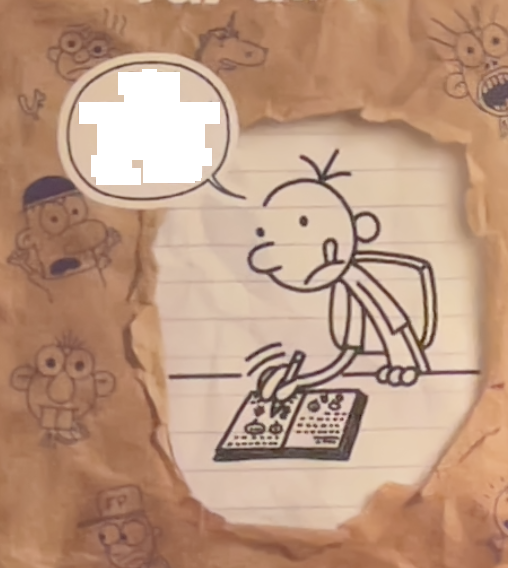
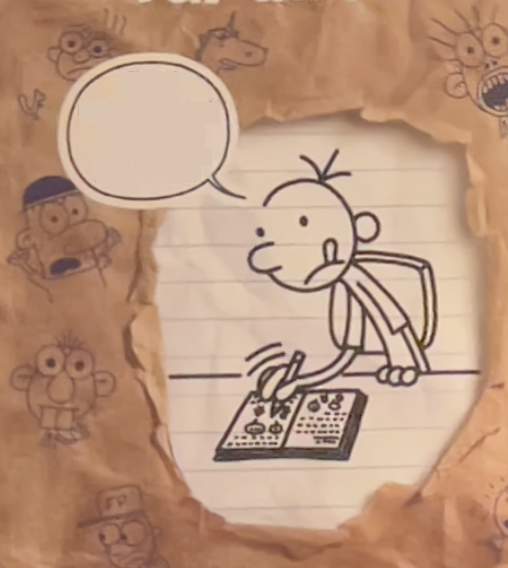
tolto testo all'img e aggiunto testo personalizzato

Changed region(s): [[0.1476, 0.1197, 0.4429, 0.3292]]

diff --git a/script.js b/script.js
@@ -1,11 +1,20 @@
 let titolo = document.querySelector("h6");
 let pagina = document.querySelector("body");
-
+let myHTML = `
+    <div id="fumetto">
+        <img src="./img/schiappa.png">
+        <p> Sei<br/>proprio<br/>una<br/>schiappa!!! </p>
+    </div>
+`;
 titolo.addEventListener("click", function() {
-    pagina.insertAdjacentHTML("beforeend", `
-        <div style="position: absolute;top: 50%; left: 50%;">
-            <img src="./img/schiappa.png" style="height: 200px;">
-            <p style="position: absolute;top: 1%;margin: 0;">Sei proprio una schiappa!!!</p>
-        </div>
-    `);
+    let fumetto = document.querySelector('#fumetto');
+    if (!fumetto) {
+        pagina.insertAdjacentHTML("beforeend", myHTML);
+        setTimeout(function() {
+            let fumetto = document.querySelector('#fumetto');
+            fumetto.addEventListener("click", function() {
+                fumetto.remove();
+            })
+        }, 100)
+    }
 });

diff --git a/style.css b/style.css
@@ -33,4 +33,18 @@ h6 {
     color: #fff;
     font-size: 24px;
     margin: 10px 0;
+    cursor: pointer;
 }
+
+#fumetto {
+    position: absolute;
+    top: 50%;
+    left: 50%;
+    transform: translate(-50%, -50%);
+    cursor: pointer;
+}
+
+#fumetto > img {height: 300px;}
+#fumetto > p {position: absolute;top: 12%;left: 18%;margin: 0;text-align: center;font-size: 13px;}
+
+
